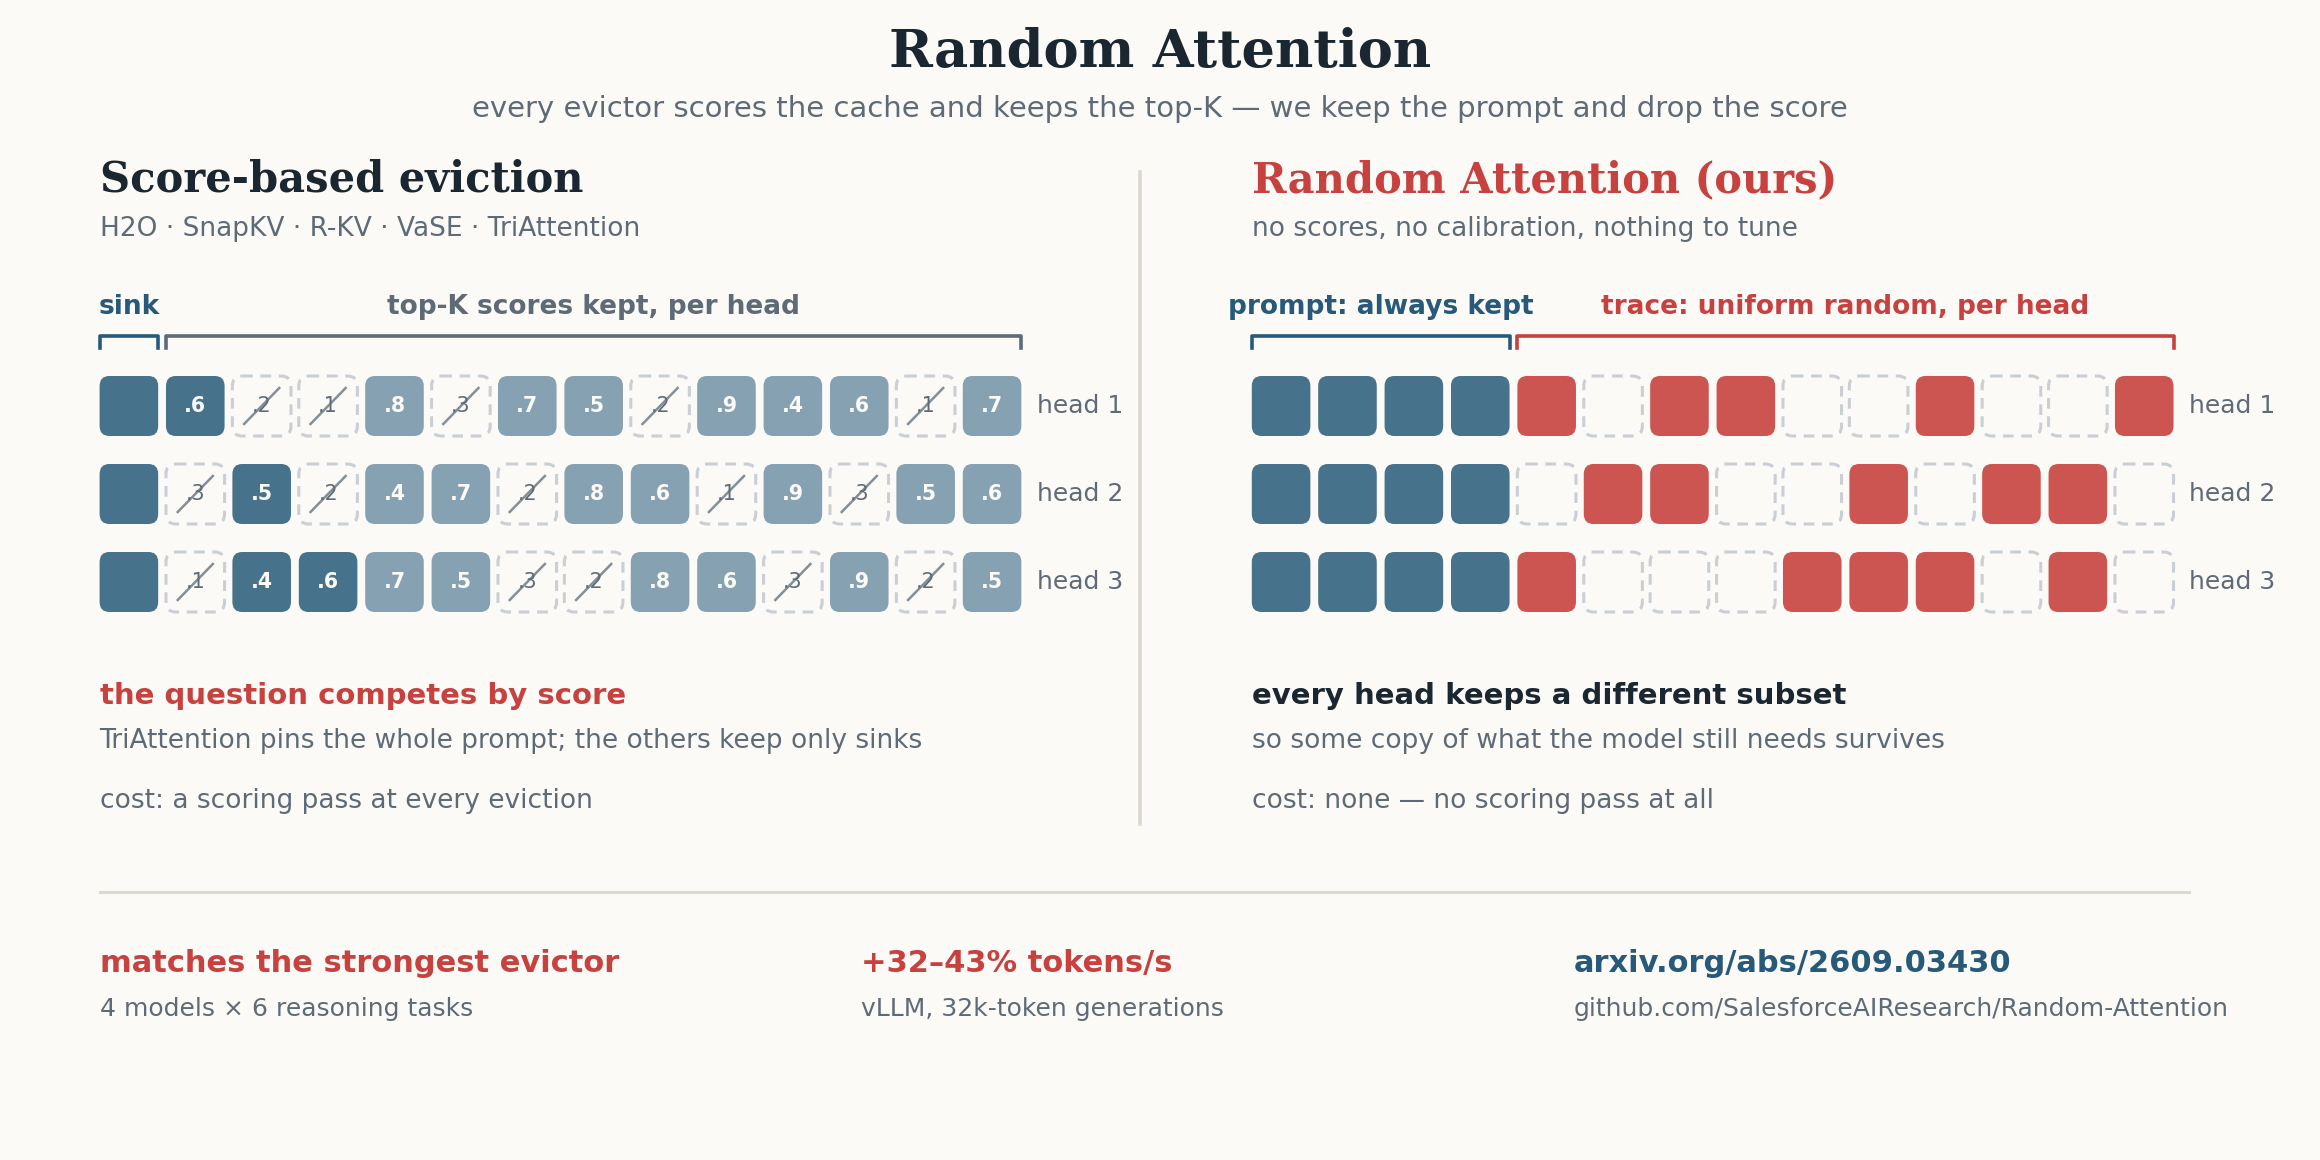
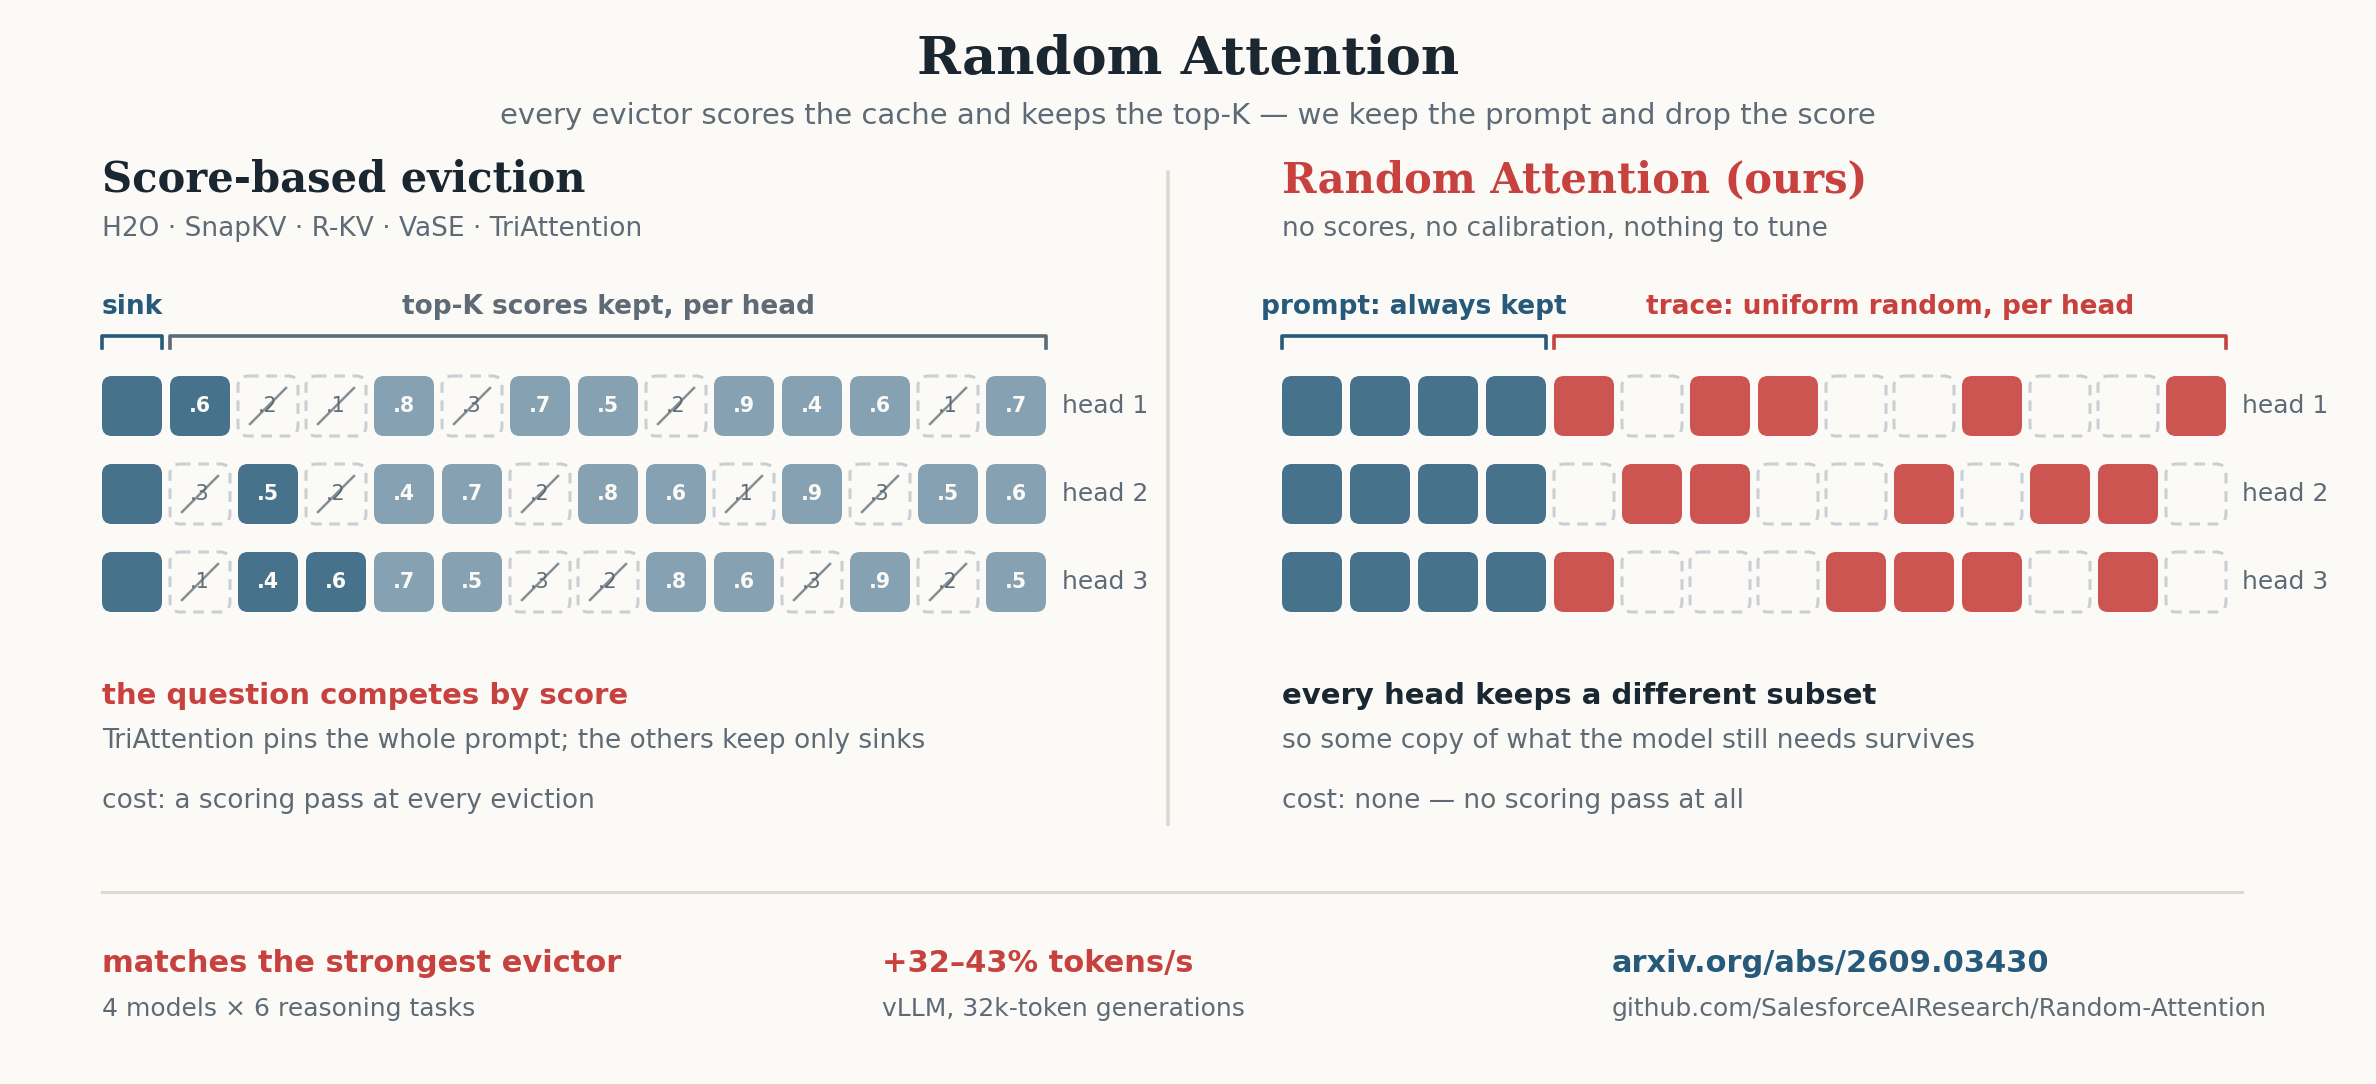
Diagram raster: canvas trimmed to content (2376x1084, 2.19:1)

diff --git a/figures/make_diagram.py b/figures/make_diagram.py
@@ -29,10 +29,10 @@ LEFT = [
 # right panel: which trace tokens each head's random draw kept (same budget, 9 cells)
 RIGHT = [{0, 2, 3, 6, 9}, {1, 2, 5, 7, 8}, {0, 4, 5, 6, 8}]
 
-fig = plt.figure(figsize=(11.6, 5.8), dpi=200, facecolor=BG)
+fig = plt.figure(figsize=(11.88, 5.42), dpi=200, facecolor=BG)
 ax = fig.add_axes([0, 0, 1, 1], facecolor=BG)
 ax.set_xlim(-6, 1182)
-ax.set_ylim(580, 0)          # y grows downwards, like the SVG
+ax.set_ylim(542, 0)          # y grows downwards, like the SVG
 ax.axis("off")
 
 
@@ -64,9 +64,9 @@ def panel_head(x, title, subtitle, color):
 
 
 # ----------------------------------------------------------------- header
-fig.text(.5, .955, "Random Attention", ha="center", va="center",
+fig.text(.5, .945, "Random Attention", ha="center", va="center",
          fontsize=19, fontweight="bold", color=INK, family="serif")
-fig.text(.5, .906, "every evictor scores the cache and keeps the top-K — we keep the prompt "
+fig.text(.5, .893, "every evictor scores the cache and keeps the top-K — we keep the prompt "
                    "and drop the score", ha="center", va="center", fontsize=10.5, color=MUTED)
 
 # ----------------------------------------------------------------- left panel
